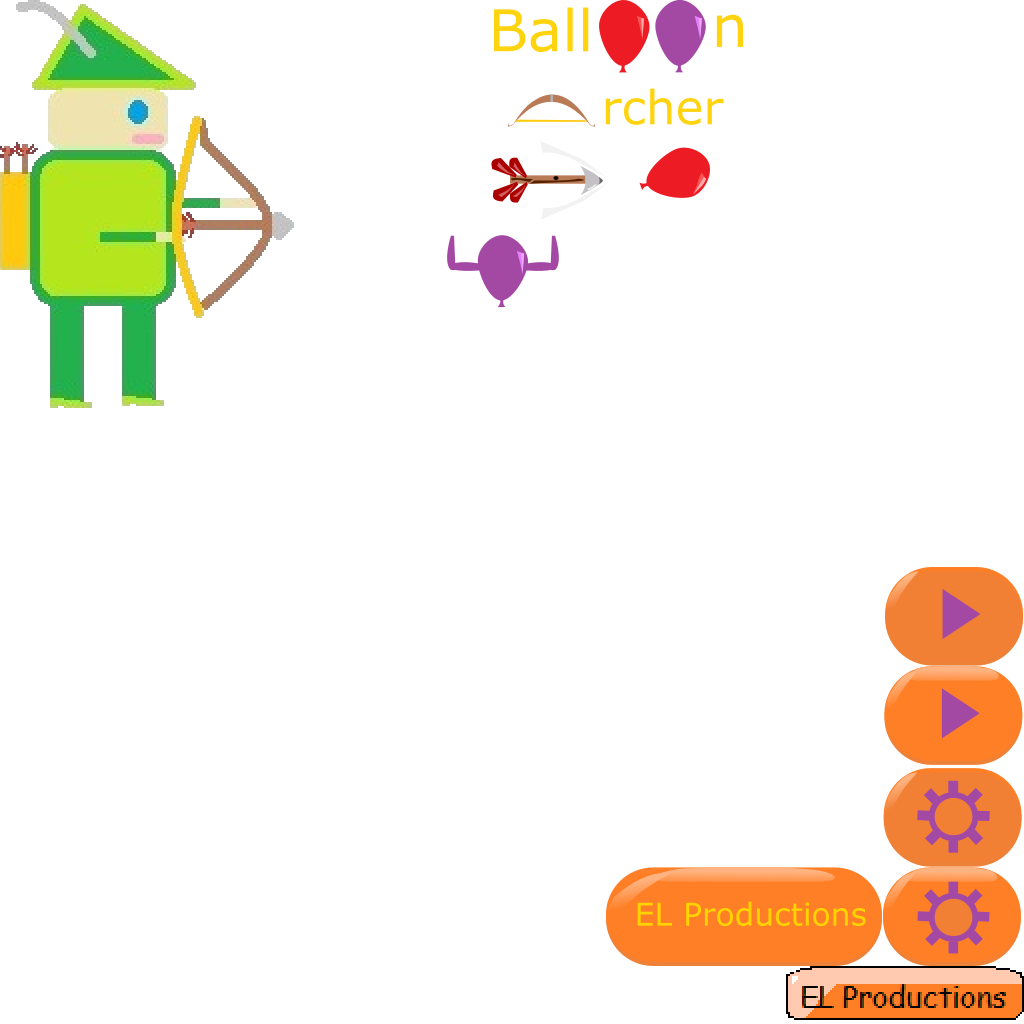
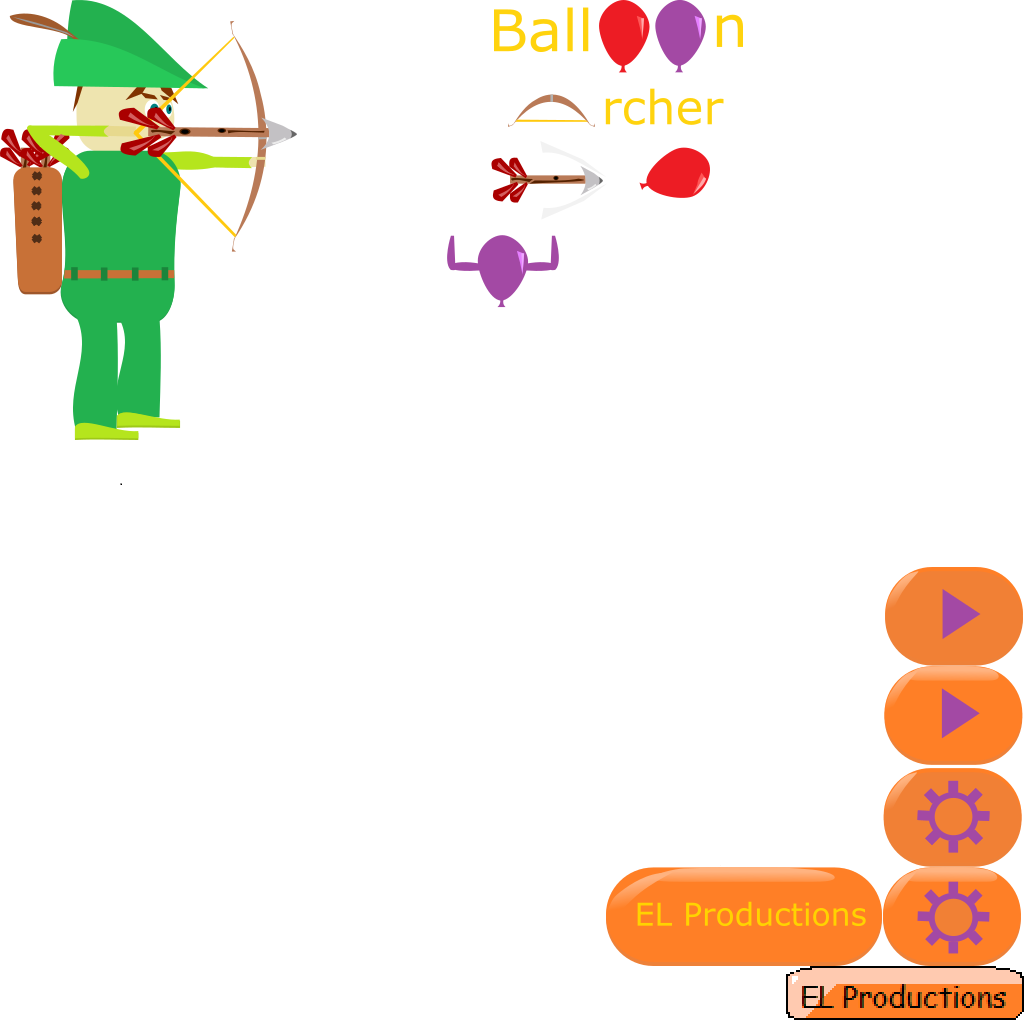
Main menu Graphics update

Changed region(s): [[0.0, 0.0, 0.2812, 0.4375]]

diff --git a/core/src/com/el/balloonArcher/screens/MenuScreen.java b/core/src/com/el/balloonArcher/screens/MenuScreen.java
@@ -137,7 +137,7 @@ public class MenuScreen extends AbstractGameScreen
 
         skinBalloonArcher.add("logo",new TextureRegion(menu_texture,493,0,250,125));
         skinBalloonArcher.add("balloons",new TextureRegion(menu_texture,446,138,264,171));
-        skinBalloonArcher.add("archer",new TextureRegion(menu_texture,0,0,296,406));
+        skinBalloonArcher.add("archer",new TextureRegion(menu_texture,0,0,296,441));
         skinBalloonArcher.add("info",new TextureRegion(menu_texture,606,867,276,99));
         skinBalloonArcher.add("background",new TextureRegion(menu_texture,500,0,1,1));
         skinBalloonArcher.add("play",new TextureRegion(menu_texture,884,665,140,101));
